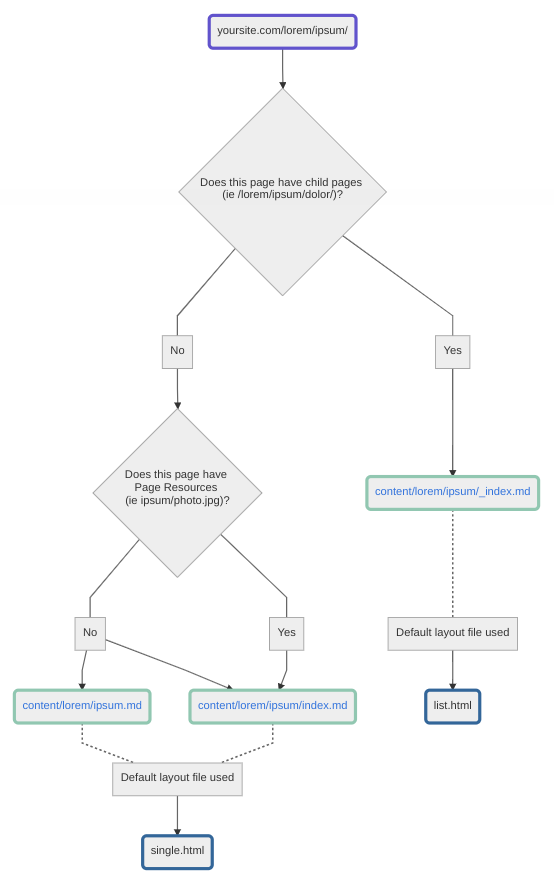
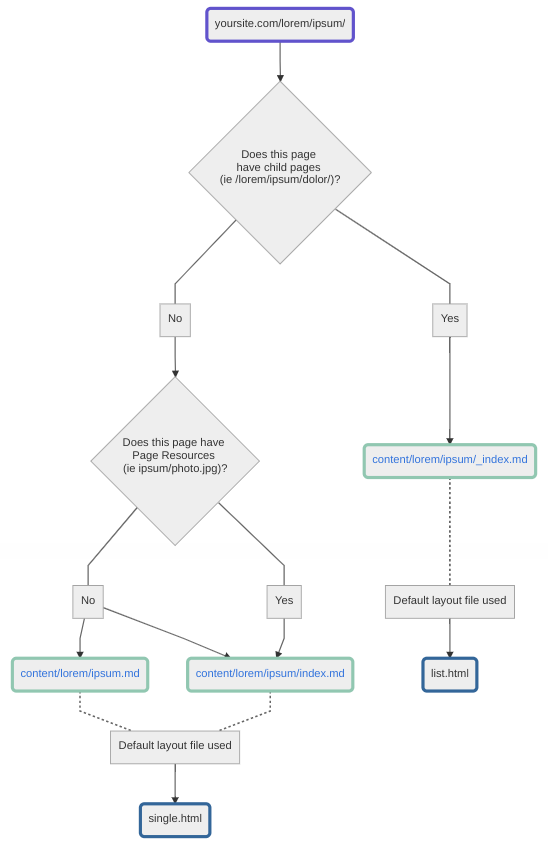
add details to readme

diff --git a/README.md b/README.md
@@ -4,14 +4,76 @@ A (hopefully) helpful guide to users new to Hugo about what the differences are
 between `index.md`, `_index.md` and `lorem-ipsum.md`, and how these relate to 
 what layout files are being used.
 
-## Why tho
+I like to start with the question: Where will this page live in my site? 
 
-Every couple of weeks on the [Hugo forums](https://discourse.gohugo.io/) we get 
-asked to clarify some aspect of the above. I want to make my life easier.
+Take a common example: an `"About Us"` page. I want it to live in `yoursite.com/about-us/`. 
+
+Any of these three options[^1] will generate a page at `yoursite.com/about-us/`:
+
+- `content/about-us.md`
+- `content/about-us/index.md`
+- `content/about-us/_index.md`
+
+But which one should I use? 
+
+1. Does this page have child pages? For example, do you want to have pages at 
+
+- `yoursite.com/about-us/`
+- `yoursite.com/about-us/blue-team/`
+- `yoursite.com/about-us/orange-team/`
+- `yoursite.com/about-us/yellow-team/`
+
+If the answer is **YES**, then `about-us` needs to be named `content/about-us/_index.md`. This tells Hugo that `about-us` is a list page. [Docs ref](https://gohugo.io/content-management/organization/#index-pages-_indexmd).
+
+As a list page, it will consequently use a `list.html`.
+
+If the answer is **NO**, the next question is:
+
+2. Do you have resources you want to bundle with your page?
+
+For example, maybe you want to organise your `"About Us"` page into several sections, one for each team. Each team has a photo, a description, and other attachments, but you don't want a separate page at all.
+
+If the answer is **YES** you will want to take advantage of Hugo's Page Bundles feature. You need to have your content file at `content/about-us/index.md`, with the Page Resources under it as well:
+
+```
+content
+├── about-us
+│   ├── index.md
+│   ├── blue-team
+│   │   ├── attachment.pdf
+│   │   ├── img.jpg
+│   │   └── members.md
+│   ├── orange-team
+│   │   ├── attachment.pdf
+│   │   ├── img.jpg
+│   │   └── members.md
+│   └── yellow-team
+│       └── ...
+```
+
+If the answer is **NO**, you have the option of simply creating your file at `content/about-us.md`. Note that you can still choose to organise it like a Page bundle (`content/about-us/index.md`) regardless.
+
+Either option (`about-us/index.md` or `about-us.md`) will use a `single.html` template.
+
+
+![site/lorem/](https://raw.githubusercontent.com/pointyfar/hugo-content-naming-layouts/master/static/yoursite-lorem.png)
+
+It's a similar flowchart even for nested pages, for example a page at `yoursite.com/galleries/cats/`:
+
+![site/lorem/ipsum](https://raw.githubusercontent.com/pointyfar/hugo-content-naming-layouts/master/static/yoursite-lorem-ipsum.png)
+
+
+
+
+[^1]: excluding aliases, permalinks, custom urls
+
 
 ## See in action
 
-https://cocky-aryabhata-833924.netlify.com/
+demo: https://cocky-aryabhata-833924.netlify.com/
+
+source: https://github.com/pointyfar/hugo-content-naming-layouts/
+
 
 ## License 
 

diff --git a/content/single-vs-list.md b/content/single-vs-list.md
@@ -13,7 +13,7 @@ Or what to name your content files: `foo.md` vs `index.md` vs `_index.md`.
 graph TD
     A("yoursite.com/lorem/") --> C
     
-    C{"Does this page have child pages <br/> (ie /lorem/ipsum/)?<br/>"}
+    C{"Does this page <br/>have child pages <br/> (ie /lorem/ipsum/)?<br/>"}
     C --- D[Yes]
     C --- E[No]
         E --> F
@@ -69,7 +69,7 @@ This assumes that `content/lorem/` is a list page.
 graph TD
     A("yoursite.com/lorem/ipsum/") --> C
     
-    C{"Does this page have child pages <br/> (ie /lorem/ipsum/dolor/)?<br/>"}
+    C{"Does this page <br/>have child pages <br/> (ie /lorem/ipsum/dolor/)?<br/>"}
     C --- D[Yes]
     C --- E[No]
         E --> F
